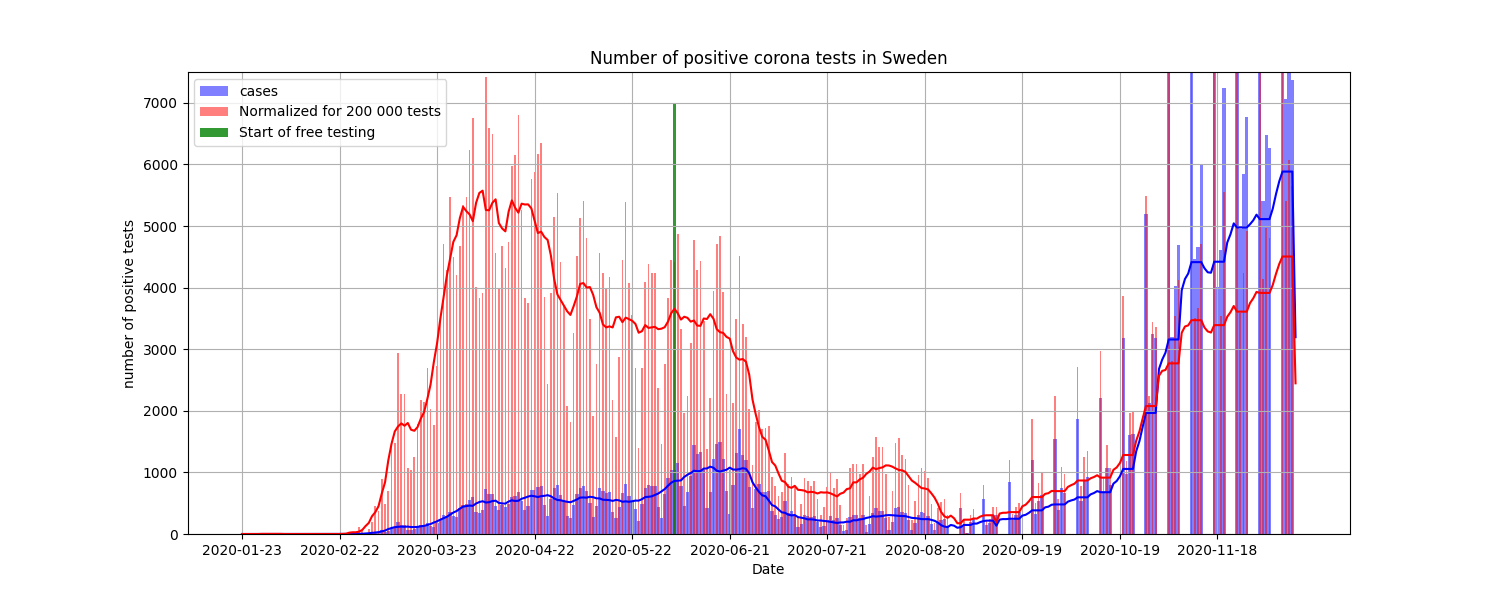
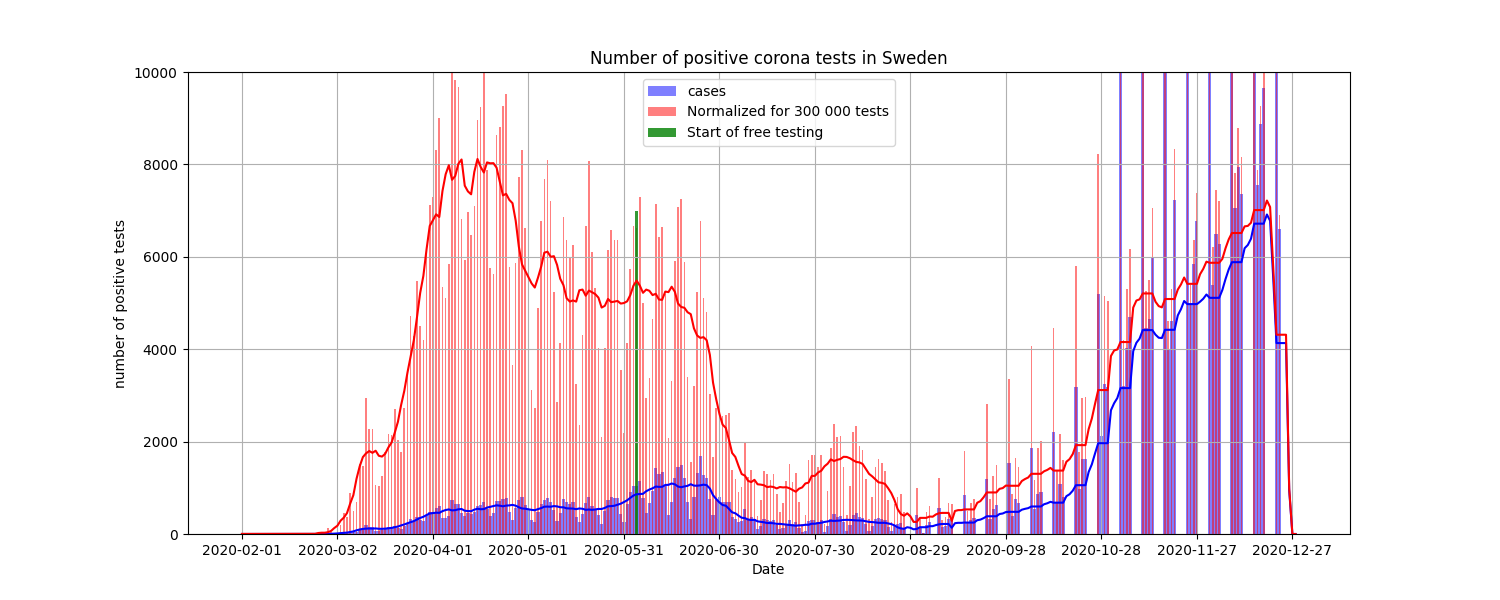
updated with latest data

diff --git a/plt_curve2.py b/plt_curve2.py
@@ -47,7 +47,7 @@ for i,d in enumerate(cases):
     ds = (dx).split('-')
     week = float(datetime.date(int(ds[0]),int(ds[1]),int(ds[2])).isocalendar()[1])
     wi = w[week]
-    factor = 200000.0/wi
+    factor = 300000.0/wi
     factor = min(15.0, factor)
     normalized_cases.append(d*factor)
 
@@ -65,13 +65,13 @@ plt.plot(date,dco, color='blue')
 plt.plot(date,dcn, color='red')
 
 plt.bar(date,cases, width=1, alpha=0.5, color='blue', label="cases")
-plt.bar(date,normalized_cases, width=0.5, alpha=0.5, color='red', label="Normalized for 200 000 tests")
+plt.bar(date,normalized_cases, width=0.5, alpha=0.5, color='red', label="Normalized for 300 000 tests")
 plt.bar(free_test_date,free_test_case, width=1, alpha=0.8, color="green", label="Start of free testing")
 
 xt = ax.get_xticks()
 
 ax.set_xticks(np.arange(xt[0],xt[np.size(xt)-1], 30))
-plt.ylim(0,7500)
+plt.ylim(0,10000)
 plt.legend()
 plt.grid()
 plt.xlabel("Date")
